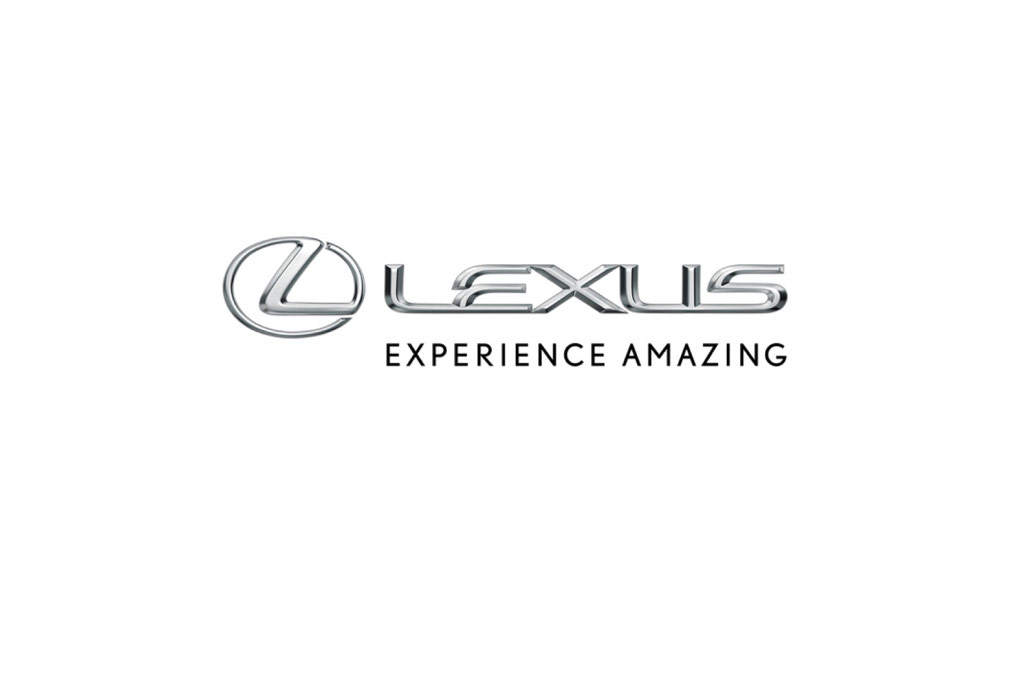
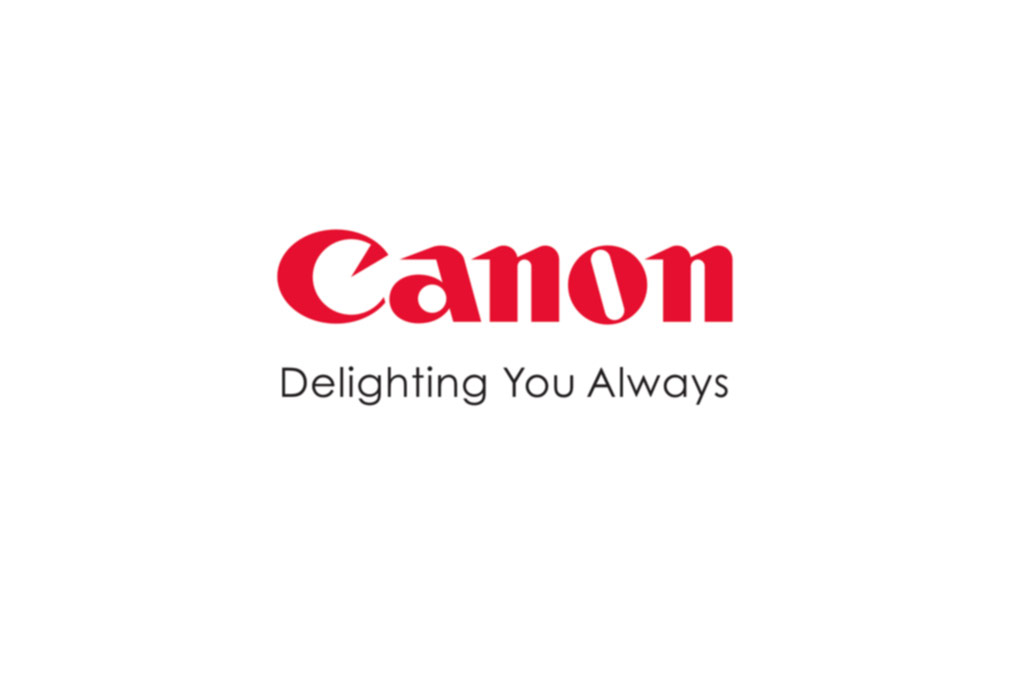
..

Changed region(s): [[0.2188, 0.3382, 0.7812, 0.6149]]

diff --git a/index.html b/index.html
@@ -19,7 +19,7 @@
 
 				<!-- Header -->
 					<header id="header">
-						<h1><a href="index.html"><strong>Multiverse</strong> by HTML5 UP</a></h1>
+						<h1><a href="index.html"><strong>Slogans</strong> by cq</a></h1>
 						<nav>
 							<ul>
 								<li><a href="#footer" class="icon fa-info-circle">About</a></li>
@@ -31,63 +31,63 @@
 					<div id="main">
 						<article class="thumb">
 							<a href="images/fulls/01.jpg" class="image"><img src="images/thumbs/01.jpg" alt="" /></a>
-							<h2>Magna feugiat lorem</h2>
-							<p>Nunc blandit nisi ligula magna sodales lectus elementum non. Integer id venenatis velit.</p>
+							<h2>Apple</h2>
+							<p>Think different.</p>
 						</article>
 						<article class="thumb">
 							<a href="images/fulls/02.jpg" class="image"><img src="images/thumbs/02.jpg" alt="" /></a>
-							<h2>Nisl adipiscing</h2>
-							<p>Nunc blandit nisi ligula magna sodales lectus elementum non. Integer id venenatis velit.</p>
+							<h2>Volkswadgen</h2>
+							<p>Play or Get Played.</p>
 						</article>
 						<article class="thumb">
 							<a href="images/fulls/03.jpg" class="image"><img src="images/thumbs/03.jpg" alt="" /></a>
-							<h2>Tempus aliquam veroeros</h2>
-							<p>Nunc blandit nisi ligula magna sodales lectus elementum non. Integer id venenatis velit.</p>
+							<h2>Netflex</h2>
+							<p>One Thousand and One Nights.</p>
 						</article>
 						<article class="thumb">
 							<a href="images/fulls/04.jpg" class="image"><img src="images/thumbs/04.jpg" alt="" /></a>
-							<h2>Aliquam ipsum sed dolore</h2>
-							<p>Nunc blandit nisi ligula magna sodales lectus elementum non. Integer id venenatis velit.</p>
+							<h2>Nike</h2>
+							<p>Just Do It.</p>
 						</article>
 						<article class="thumb">
 							<a href="images/fulls/05.jpg" class="image"><img src="images/thumbs/05.jpg" alt="" /></a>
-							<h2>Cursis aliquam nisl</h2>
-							<p>Nunc blandit nisi ligula magna sodales lectus elementum non. Integer id venenatis velit.</p>
+							<h2>Fedex</h2>
+							<p>It's Probably Broken.</p>
 						</article>
 						<article class="thumb">
 							<a href="images/fulls/06.jpg" class="image"><img src="images/thumbs/06.jpg" alt="" /></a>
-							<h2>Sed consequat phasellus</h2>
-							<p>Nunc blandit nisi ligula magna sodales lectus elementum non. Integer id venenatis velit.</p>
+							<h2>Google</h2>
+							<p>Don't be Evil.</p>
 						</article>
 						<article class="thumb">
 							<a href="images/fulls/07.jpg" class="image"><img src="images/thumbs/07.jpg" alt="" /></a>
-							<h2>Mauris id tellus arcu</h2>
-							<p>Nunc blandit nisi ligula magna sodales lectus elementum non. Integer id venenatis velit.</p>
+							<h2>Nintendo</h2>
+							<p>Live Gaming.Breathe.</p>
 						</article>
 						<article class="thumb">
 							<a href="images/fulls/08.jpg" class="image"><img src="images/thumbs/08.jpg" alt="" /></a>
-							<h2>Nunc vehicula id nulla</h2>
-							<p>Nunc blandit nisi ligula magna sodales lectus elementum non. Integer id venenatis velit.</p>
+							<h2>KIA</h2>
+							<p>The Power to Surprise.</p>
 						</article>
 						<article class="thumb">
 							<a href="images/fulls/09.jpg" class="image"><img src="images/thumbs/09.jpg" alt="" /></a>
-							<h2>Neque et faucibus viverra</h2>
-							<p>Nunc blandit nisi ligula magna sodales lectus elementum non. Integer id venenatis velit.</p>
+							<h2>Youtube</h2>
+							<p>Don't Read the Comments.</p>
 						</article>
 						<article class="thumb">
 							<a href="images/fulls/10.jpg" class="image"><img src="images/thumbs/10.jpg" alt="" /></a>
-							<h2>Mattis ante fermentum</h2>
-							<p>Nunc blandit nisi ligula magna sodales lectus elementum non. Integer id venenatis velit.</p>
+							<h2>Facebook</h2>
+							<p>Wasting Peoples' Lives Since 2004.</p>
 						</article>
 						<article class="thumb">
 							<a href="images/fulls/11.jpg" class="image"><img src="images/thumbs/11.jpg" alt="" /></a>
-							<h2>Sed ac elementum arcu</h2>
-							<p>Nunc blandit nisi ligula magna sodales lectus elementum non. Integer id venenatis velit.</p>
+							<h2>mercedes-Benz</h2>
+							<p>The Best or Nothing.</p>
 						</article>
 						<article class="thumb">
 							<a href="images/fulls/12.jpg" class="image"><img src="images/thumbs/12.jpg" alt="" /></a>
-							<h2>Vehicula id nulla dignissim</h2>
-							<p>Nunc blandit nisi ligula magna sodales lectus elementum non. Integer id venenatis velit.</p>
+							<h2>Canon</h2>
+							<p>Delighting You Always.</p>
 						</article>
 					</div>
 
@@ -96,11 +96,13 @@
 						<div class="inner split">
 							<div>
 								<section>
-									<h2>Magna feugiat sed adipiscing</h2>
-									<p>Nulla consequat, ex ut suscipit rutrum, mi dolor tincidunt erat, et scelerisque turpis ipsum eget quis orci mattis aliquet. Maecenas fringilla et ante at lorem et ipsum. Dolor nulla eu bibendum sapien. Donec non pharetra dui. Nulla consequat, ex ut suscipit rutrum, mi dolor tincidunt erat, et scelerisque turpis ipsum.</p>
+									<h2>What's a Slogan</h2>
+									<p>a short and striking or memorable phrase used in advertising.</p>
+									<p>广告中使用的短而醒目或令人难忘的短语.</p>
+									<p>希望这些slogans能带给你产品中的灵感.</p>
 								</section>
 								<section>
-									<h2>Follow me on ...</h2>
+									<h2>Do Not Follow me on ...</h2>
 									<ul class="icons">
 										<li><a href="#" class="icon fa-twitter"><span class="label">Twitter</span></a></li>
 										<li><a href="#" class="icon fa-facebook"><span class="label">Facebook</span></a></li>
@@ -111,12 +113,12 @@
 									</ul>
 								</section>
 								<p class="copyright">
-									&copy; Unttled. Design: <a href="http://html5up.net">HTML5 UP</a>.
+									&copy; For fun: <a href="https://eudaem.github.io/Slogans/">Slogans</a>.
 								</p>
 							</div>
 							<div>
 								<section>
-									<h2>Get in touch</h2>
+									<h2>Don‘t try to get in touch ...</h2>
 									<form method="post" action="#">
 										<div class="fields">
 											<div class="field half">
